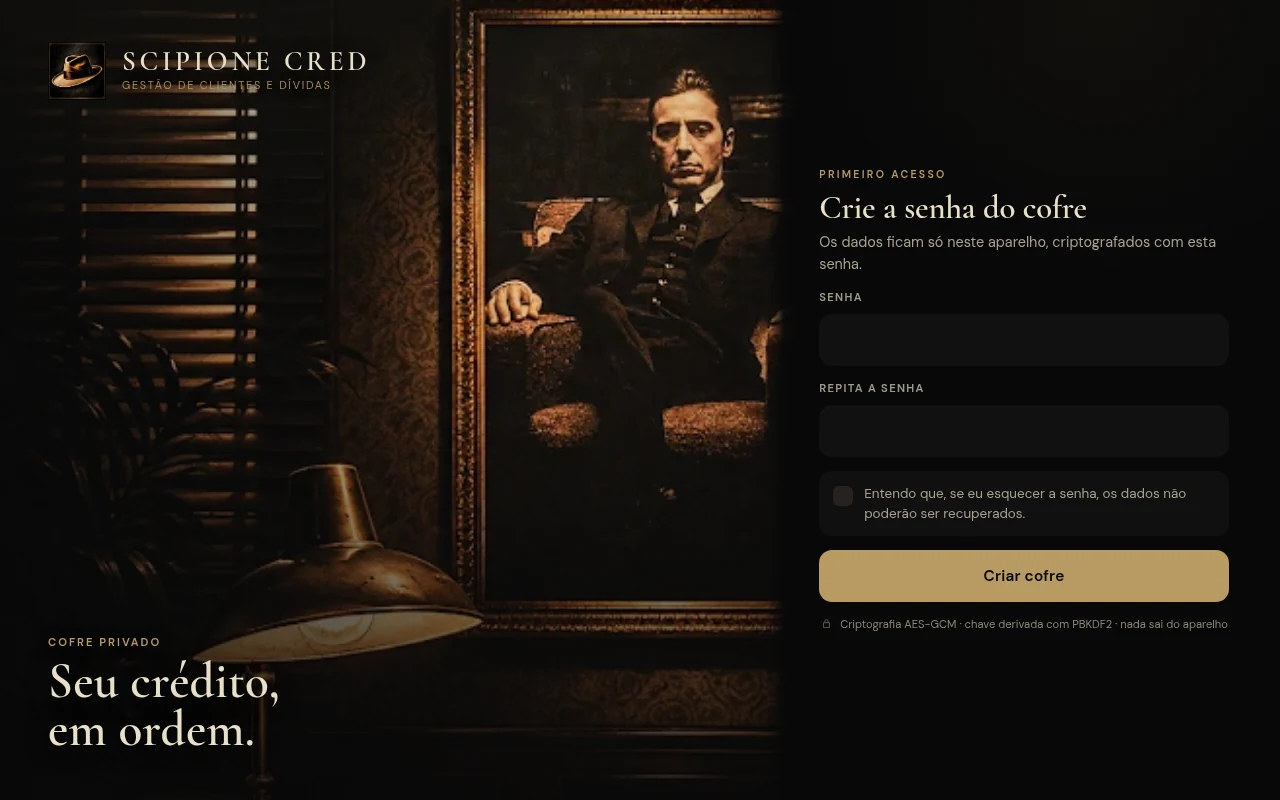
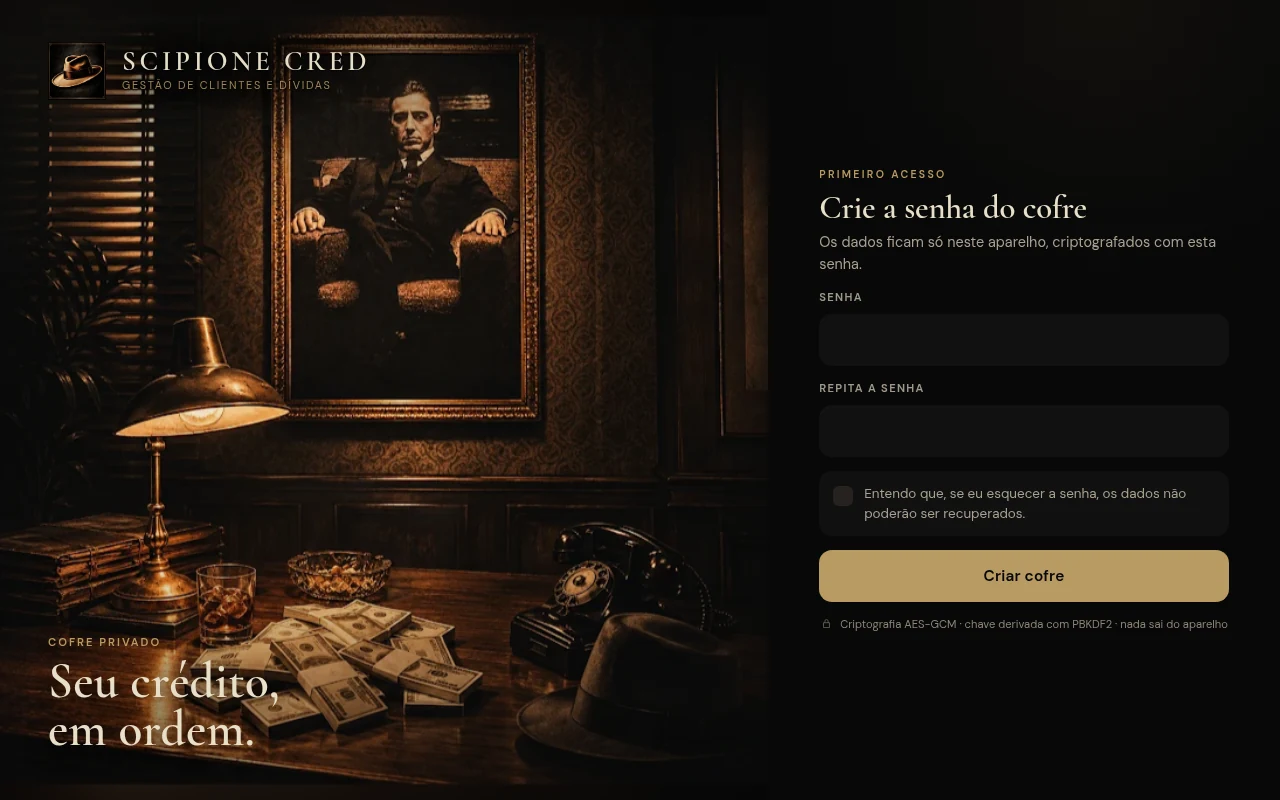
Show login scenes without cropping

Changed region(s): [[0.0, 0.0, 0.625, 1.0], [0.5, 0.5, 0.5938, 0.5625], [0.0625, 0.4688, 0.0938, 0.5]]

diff --git a/css/ui.css b/css/ui.css
@@ -325,48 +325,46 @@ body.authing{overflow:hidden}
 body.authing main{max-width:none;display:block;padding:0;align-items:stretch}
 body.authing main>*{width:auto;max-width:none}
 .auth-shell{position:relative;display:flex;flex-direction:column;height:100dvh;min-height:100svh;overflow:hidden;background:#080808;isolation:isolate}
-.auth-visual{position:absolute;inset:0;z-index:0;overflow:hidden;background:#080808}
-.auth-photo{display:block;position:absolute;inset:0;width:100%;height:100%;object-fit:cover;object-position:center 34%;opacity:0;
+.auth-visual{position:relative;flex:1 1 auto;min-height:0;width:100%;z-index:0;overflow:hidden;background:#080808}
+.auth-visual::before,.auth-visual::after{content:"";position:absolute;inset:-34px;z-index:0;pointer-events:none;
+  background-size:cover;background-position:center;filter:blur(34px) brightness(.38) saturate(.9);transform:scale(1.06);opacity:0}
+.auth-visual::before{background-image:url("../assets/img/office.webp");animation:auth-a 18s ease-in-out infinite}
+.auth-visual::after{background-image:url("../assets/img/office-desk.webp");animation:auth-b 18s ease-in-out infinite}
+.auth-photo{display:block;position:absolute;inset:0;width:100%;height:100%;object-fit:contain;object-position:center;opacity:0;z-index:1;
   -webkit-mask-image:none;mask-image:none;animation:auth-a 18s ease-in-out infinite}
 .auth-photo:first-of-type{opacity:1}
-.auth-photo.alt{object-position:center 48%;animation-name:auth-b}
+.auth-photo.alt{object-position:center;animation-name:auth-b}
 @keyframes auth-a{0%,48%{opacity:1}52%,95%{opacity:0}100%{opacity:1}}
 @keyframes auth-b{0%,48%{opacity:0}52%,95%{opacity:1}100%{opacity:0}}
-.auth-wash{position:absolute;inset:0;z-index:1;pointer-events:none;
-  background:linear-gradient(180deg,rgba(8,8,8,.66) 0%,rgba(8,8,8,.18) 25%,rgba(8,8,8,.2) 44%,rgba(8,8,8,.86) 74%,#080808 94%),
-    radial-gradient(80% 42% at 12% 0%,rgba(184,154,98,.08),transparent 72%)}
+.auth-wash{position:absolute;inset:0;z-index:2;pointer-events:none;
+  background:linear-gradient(180deg,rgba(8,8,8,.55) 0%,rgba(8,8,8,.06) 30%,rgba(8,8,8,.08) 70%,rgba(8,8,8,.42) 100%),
+    radial-gradient(80% 42% at 12% 0%,rgba(184,154,98,.06),transparent 72%)}
 .auth-brand{position:absolute;z-index:3;top:calc(env(safe-area-inset-top) + 20px);left:22px;right:22px;display:flex;align-items:center;gap:13px;color:var(--ivory)}
 .auth-mark{width:46px;height:46px;flex:none;background:transparent;border-radius:0;box-shadow:none;overflow:visible}
 .auth-brand-copy{display:grid;gap:3px;min-width:0}
-.auth-brand-name{font-family:var(--font-serif);font-size:1.45rem;font-weight:600;line-height:1;letter-spacing:.12em;text-transform:uppercase;margin:0;color:var(--ivory);white-space:nowrap;text-shadow:0 2px 18px rgba(0,0,0,.95)}
-.auth-brand-tag{font-size:.64rem;line-height:1.4;letter-spacing:.16em;text-transform:uppercase;color:rgba(184,154,98,.86);margin:0;white-space:nowrap;text-shadow:0 1px 12px rgba(0,0,0,.95)}
+.auth-brand-name{font-family:var(--font-serif);font-size:1.45rem;font-weight:600;line-height:1;letter-spacing:.12em;text-transform:uppercase;margin:0;color:var(--ivory);white-space:nowrap;text-shadow:0 1px 2px rgba(0,0,0,.95),0 3px 16px rgba(0,0,0,.95),0 0 34px rgba(0,0,0,.85)}
+.auth-brand-tag{font-size:.64rem;line-height:1.4;letter-spacing:.16em;text-transform:uppercase;color:rgba(184,154,98,.86);margin:0;white-space:nowrap;text-shadow:0 1px 2px rgba(0,0,0,.95),0 2px 12px rgba(0,0,0,.95),0 0 26px rgba(0,0,0,.9)}
 .auth-quote{display:none}
 .quote-line{font-family:var(--font-serif);font-weight:600;line-height:1.02;letter-spacing:.005em;margin:0;color:var(--ivory);text-shadow:0 2px 24px rgba(0,0,0,.9)}
 .auth-quote .eyebrow{font-size:.7rem;letter-spacing:.18em;margin:0 0 6px;text-shadow:0 1px 14px rgba(0,0,0,.9)}
-.auth-panel{position:relative;z-index:2;margin-top:auto;width:100%;padding:26px 20px calc(env(safe-area-inset-bottom) + 18px);
+.auth-panel{position:relative;z-index:2;flex:0 0 auto;margin-top:0;width:100%;padding:26px 20px calc(env(safe-area-inset-bottom) + 18px);
   background:linear-gradient(180deg,#0a0a0a 0%,#080808 16%);
   -webkit-backdrop-filter:blur(16px) saturate(120%);backdrop-filter:blur(16px) saturate(120%);
-  border-radius:28px 28px 0 0;box-shadow:0 -34px 70px -34px rgba(0,0,0,.95)}
+  border-radius:28px 28px 0 0;box-shadow:none}
 
-@media(max-width:759px){
-  .auth-panel::before{content:"";position:absolute;left:0;right:0;top:-30px;height:30px;pointer-events:none;
-    background:linear-gradient(180deg,rgba(8,8,8,0),rgba(8,8,8,.96))}
-}
 @media(min-width:760px){
   .auth-shell{display:grid;grid-template-columns:minmax(0,1fr) clamp(400px,40vw,560px);height:100dvh}
-  .auth-visual{position:absolute;inset:0;height:auto}
-  .auth-photo{object-position:center 8%;
-    -webkit-mask-image:linear-gradient(90deg,#000 55%,rgba(0,0,0,.42) 82%,transparent 100%);
-    mask-image:linear-gradient(90deg,#000 55%,rgba(0,0,0,.42) 82%,transparent 100%)}
-  .auth-wash{background:linear-gradient(90deg,rgba(8,8,8,.58) 0%,rgba(8,8,8,.06) 44%,rgba(8,8,8,.18) 62%,rgba(8,8,8,.92) 100%),
-    linear-gradient(0deg,rgba(8,8,8,.86) 0%,transparent 55%),radial-gradient(70% 50% at 8% 0%,rgba(184,154,98,.09),transparent 70%)}
+  .auth-visual{position:relative;inset:auto;grid-column:1;grid-row:1;height:100%;min-height:0}
+  .auth-photo{object-fit:contain;object-position:center}
+  .auth-wash{background:linear-gradient(180deg,rgba(8,8,8,.55) 0%,rgba(8,8,8,.04) 28%,rgba(8,8,8,.06) 68%,rgba(8,8,8,.5) 100%),
+    radial-gradient(70% 50% at 8% 0%,rgba(184,154,98,.07),transparent 70%)}
   .auth-brand{top:42px;left:48px;right:auto;gap:16px}
   .auth-mark{width:58px;height:58px}
   .auth-brand-name{font-size:1.7rem;letter-spacing:.14em}
   .auth-brand-tag{font-size:.68rem}
   .auth-quote{display:block;position:absolute;z-index:3;left:48px;right:auto;bottom:46px;max-width:min(520px,44vw)}
   .quote-line{font-size:clamp(2.2rem,1.55rem + 1.9vw,3.4rem);line-height:.98}
-  .auth-panel{grid-column:2;margin:0;height:100%;padding:48px clamp(32px,4vw,64px);display:flex;align-items:center;justify-content:center;
+  .auth-panel{grid-column:2;grid-row:1;margin:0;height:100%;padding:48px clamp(32px,4vw,64px);display:flex;align-items:center;justify-content:center;
     background:radial-gradient(80% 50% at 65% 0%,rgba(184,154,98,.055),transparent 70%),linear-gradient(90deg,rgba(8,8,8,0) 0%,rgba(8,8,8,.94) 3%,#080808 5.5%,#080808 100%);
     -webkit-backdrop-filter:none;backdrop-filter:none;border-radius:0;box-shadow:none}
   .auth{max-width:420px}
@@ -546,6 +544,9 @@ body.authing main>*{width:auto;max-width:none}
   *,*::before,*::after{animation-duration:.001ms!important;animation-delay:0ms!important;transition:none!important;scroll-behavior:auto!important}
   .auth-photo{animation:none!important;opacity:0!important}
   .auth-photo:first-of-type{opacity:1!important}
+  .auth-visual::before,.auth-visual::after{animation:none!important}
+  .auth-visual::before{opacity:1!important}
+  .auth-visual::after{opacity:0!important}
 }
 
 /* ---------- Impressão ---------- */

diff --git a/sw.js b/sw.js
@@ -1,5 +1,5 @@
 // Ao adicionar arquivos nas próximas etapas: inclua-os em FILES e incremente V.
-const V='sc-v42',FILES=['./','index.html','manifest.json','css/app.css','css/ui.css','src/ui/icons.js','src/ui/shell.js','src/ui/kit.js','src/main.js','src/pwa.js','vendor/fflate.min.js','src/export/lib.js','src/export/xlsx.js','src/export/backup-format.js','src/export/backup.js','src/export/reports.js','src/ui/tools.js','src/ui/settings.js','src/core/live.js','src/domain/due.js','src/services/search.js','src/services/settings.js','src/services/dashboard.js','src/ui/dashboard.js','src/ui/avatar.js','src/ui/clientlist.js','src/ui/debtspage.js','src/ui/debts.js','src/services/debts.js','src/domain/money.js','src/ui/clients.js','src/services/clients.js','src/services/records.js','src/domain/validators.js','src/files/process.js','src/db/idb.js','src/security/crypto.js','src/security/auth.js','assets/fonts/cormorant-garamond-latin.woff2','assets/fonts/dm-sans-latin.woff2','assets/img/hat.webp','assets/img/office.webp','assets/img/office-desk.webp','assets/icons/icon-192.png','assets/icons/icon-512.png','assets/icons/icon-maskable-512.png','assets/icons/apple-touch-icon.png'];
+const V='sc-v43',FILES=['./','index.html','manifest.json','css/app.css','css/ui.css','src/ui/icons.js','src/ui/shell.js','src/ui/kit.js','src/main.js','src/pwa.js','vendor/fflate.min.js','src/export/lib.js','src/export/xlsx.js','src/export/backup-format.js','src/export/backup.js','src/export/reports.js','src/ui/tools.js','src/ui/settings.js','src/core/live.js','src/domain/due.js','src/services/search.js','src/services/settings.js','src/services/dashboard.js','src/ui/dashboard.js','src/ui/avatar.js','src/ui/clientlist.js','src/ui/debtspage.js','src/ui/debts.js','src/services/debts.js','src/domain/money.js','src/ui/clients.js','src/services/clients.js','src/services/records.js','src/domain/validators.js','src/files/process.js','src/db/idb.js','src/security/crypto.js','src/security/auth.js','assets/fonts/cormorant-garamond-latin.woff2','assets/fonts/dm-sans-latin.woff2','assets/img/hat.webp','assets/img/office.webp','assets/img/office-desk.webp','assets/icons/icon-192.png','assets/icons/icon-512.png','assets/icons/icon-maskable-512.png','assets/icons/apple-touch-icon.png'];
 addEventListener('install',e=>e.waitUntil(caches.open(V).then(c=>c.addAll(FILES)).then(()=>skipWaiting())));
 addEventListener('activate',e=>e.waitUntil(caches.keys().then(k=>Promise.all(k.filter(x=>x!==V).map(x=>caches.delete(x)))).then(()=>clients.claim())));
 addEventListener('fetch',e=>{if(e.request.method!=='GET')return;e.respondWith(caches.match(e.request,{ignoreSearch:true}).then(r=>r||fetch(e.request).catch(()=>caches.match('index.html'))))});

diff --git a/docs/README.md b/docs/README.md
@@ -28,7 +28,7 @@ Camada exclusivamente visual, sem alteração de regras de negócio, banco ou fl
 - **Rolagem:** barras de rolagem ocultas em todos os tamanhos de tela; rolagem preservada por toque, roda e teclado.
 - **Feedback:** transições suaves entre telas, spinners nas ações assíncronas e estado de carregamento acessível (`aria-busy`).
 - **Uploads:** áreas pontilhadas com ícone central e texto simples, adaptadas a celular, tablet e desktop.
-- **Login:** composição editorial de altura fixa, sem rolagem, com as duas cenas do escritório em crossfade (ciclo de 18 s). No celular a cena ocupa o fundo e o formulário sobe em uma folha inferior; a partir de 760 px, a imagem permanece em tela cheia e o formulário ocupa um painel lateral escuro, sem cartão. Telas baixas usam escala compacta, preservando campos, aviso de segurança e ação principal. Com `prefers-reduced-motion`, a primeira cena fica estática.
+- **Login:** composição editorial de altura fixa, sem rolagem, com as duas cenas do escritório em crossfade (ciclo de 18 s). As imagens são exibidas inteiras, sem recorte, com um preenchimento desfocado da própria cena ao redor. No celular a cena fica no topo e o formulário sobe em uma folha inferior; a partir de 760 px, a imagem ocupa a coluna esquerda e o formulário ocupa um painel lateral escuro, sem cartão. Telas baixas usam escala compacta, preservando campos, aviso de segurança e ação principal. Com `prefers-reduced-motion`, a primeira cena fica estática.
 - **Marca:** imagem original do chapéu inteira e sem recorte, com a moldura dourada original, usada na navegação, no login e nos ícones do aplicativo (192, 512, maskable e apple-touch), sem contorno adicional, sombra ou cantos arredondados.
 - **Estética:** sem bordas, linhas divisórias ou separadores; hierarquia por espaçamento, superfícies e contraste; botões e campos sem contorno em repouso.
 - **Acessibilidade:** link "Ir para o conteúdo", foco visível (halo suave em campos e anel em botões), alvos de toque >= 44 px, `aria-current` na navegação, rótulos associados, `role="alert"`/`status` nas mensagens e `prefers-reduced-motion` respeitado.

diff --git a/README.md b/README.md
@@ -32,7 +32,7 @@ Foi pensado para uso pessoal e profissional em cenários que exigem discrição:
 
 <p align="center">
   <img src="docs/screenshots/login-desktop.webp" alt="Tela de login do SCIPIONE CRED" width="920"><br>
-  <sub>Login com duas cenas do escritório que se alternam automaticamente.</sub>
+  <sub>Login com as duas cenas do escritório, sempre inteiras, alternando automaticamente.</sub>
 </p>
 
 <p align="center">
@@ -125,7 +125,7 @@ Foi pensado para uso pessoal e profissional em cenários que exigem discrição:
 - PWA instalável no celular e no desktop.
 - Funciona offline depois do primeiro carregamento.
 - Layout responsivo para celular, tablet e desktop.
-- Duas cenas de login que se alternam automaticamente com crossfade suave.
+- Duas cenas de login exibidas por inteiro, sem recorte, alternando com crossfade suave.
 - Navegação por teclado, foco visível, alvos de toque e respeito a `prefers-reduced-motion`.
 - Barras de rolagem ocultas, mantendo a rolagem por toque, roda e teclado.
 - Áreas de upload pontilhadas, com ícone central e texto simples.
